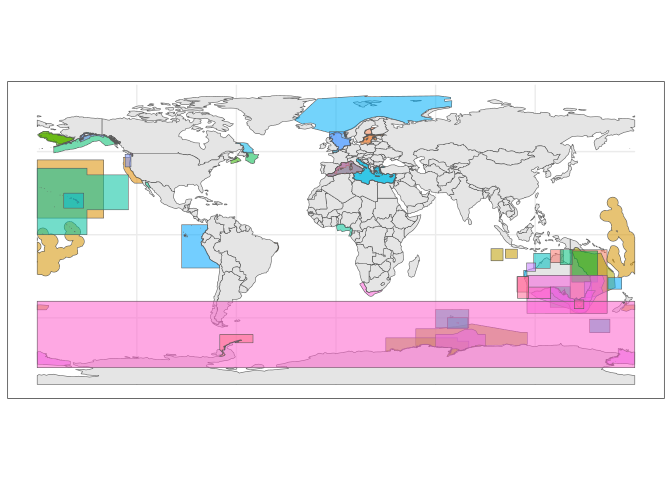
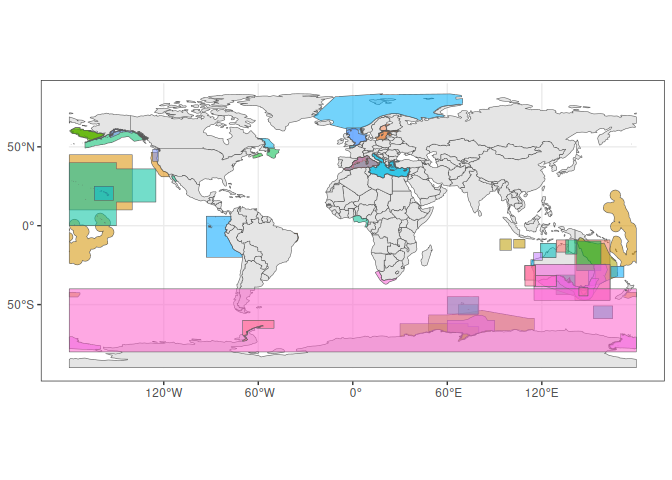
minor edits to text and updating new of Kerguelen Mizer model

Changed region(s): [[0.0, 0.1562, 1.0, 0.8438]]

diff --git a/scripts/01_Merging_Regional_Shapefiles.md b/scripts/01_Merging_Regional_Shapefiles.md
@@ -3,20 +3,15 @@ Merging FishMIP Regional Shapefiles
 Denisse Fierro Arcos
 2023-10-31
 
-- <a href="#introduction" id="toc-introduction">Introduction</a>
-- <a href="#loading-r-libraries" id="toc-loading-r-libraries">Loading R
-  libraries</a>
-- <a href="#loading-regional-shapefiles"
-  id="toc-loading-regional-shapefiles">Loading regional shapefiles</a>
-  - <a href="#getting-list-of-directories"
-    id="toc-getting-list-of-directories">Getting list of directories</a>
-  - <a href="#getting-list-of-lme-names-from-directory-paths"
-    id="toc-getting-list-of-lme-names-from-directory-paths">Getting list of
-    LME names from directory paths</a>
-  - <a href="#loading-regions" id="toc-loading-regions">Loading regions</a>
-  - <a href="#plotting-merged-regions-in-a-map"
-    id="toc-plotting-merged-regions-in-a-map">Plotting merged regions in a
-    map</a>
+- [Introduction](#introduction)
+- [Loading R libraries](#loading-r-libraries)
+- [Loading regional shapefiles](#loading-regional-shapefiles)
+  - [Getting list of directories](#getting-list-of-directories)
+  - [Getting list of LME names from directory
+    paths](#getting-list-of-lme-names-from-directory-paths)
+  - [Loading regions](#loading-regions)
+  - [Plotting merged regions in a
+    map](#plotting-merged-regions-in-a-map)
 
 # Introduction
 
@@ -64,13 +59,13 @@ models shapefile.
 
 ``` r
 #Shapefile folder
-shp_reg <- "/rd/gem/private/shared_resources/Shapefiles_Regions/"
+shp_reg <- "/rd/gem/private/shared_resources/Shapefiles_Regions"
 
 #Getting name of folders containing regional models
-reg <- list.dirs(shp_reg, recursive = F, full.names = F)
+reg <- list.dirs(shp_reg, recursive = FALSE, full.names = FALSE)
 
 #Creating a table with ecosystem models available per region
-reg_info <- str_split(reg, "_", simplify = T) |>
+reg_info <- str_split(reg, "_", simplify = TRUE) |>
   data.frame() |> 
   #Renaming columns
   rename(region = X1, model_all = X2) |> 
@@ -85,7 +80,7 @@ reg_info <- str_split(reg, "_", simplify = T) |>
   #Change name of Hawaiian region
   mutate(region = case_when(str_detect(region, "Hawaii based") ~ 
                               "Hawai'i based Longline", 
-                            T ~ region))
+                            TRUE ~ region))
 ```
 
 ## Getting list of LME names from directory paths
@@ -93,10 +88,10 @@ reg_info <- str_split(reg, "_", simplify = T) |>
 ``` r
 #Getting a list of shapefiles in the folder containing the regional model 
 #boundaries
-region_paths <- list.files(shp_reg, pattern = ".shp$", recursive = T, 
-                           full.names = T)
-#Remove any shapefiles included in "Support Info" folders
-region_paths <- region_paths[!str_detect(region_paths, "SupportInfo")]
+region_paths <- list.files(shp_reg, pattern = ".shp$", recursive = TRUE, 
+                           full.names = TRUE) |> 
+  #Remove any shapefiles included in "Support Info" folders
+  str_subset("SupportInfo", negate = TRUE)
 ```
 
 ## Loading regions
@@ -144,7 +139,7 @@ world <- ne_countries(returnclass = "sf")
 #Plotting regions and map of the world
 ggplot()+
   geom_sf(data = world)+
-  geom_sf(data = regions, aes(fill = region, alpha = 0.5), show.legend = F)+
+  geom_sf(data = regions, aes(fill = region, alpha = 0.5), show.legend = FALSE)+
   theme_bw()+
   theme(legend.position = "bottom", legend.title = element_blank())+
   guides(fill = guide_legend(ncol = 4))
@@ -163,7 +158,7 @@ if(!dir.exists(out_folder)){
   dir.create(out_folder, recursive = T)}
 
 regions |> 
-  write_sf(file.path(out_folder, "FishMIP_regional_models.shp"), append = F)
+  write_sf(file.path(out_folder, "FishMIP_regional_models.shp"), append = FALSE)
 ```
 
 Remember, the final shapefile is also available in the [FishMIP THREDDS
